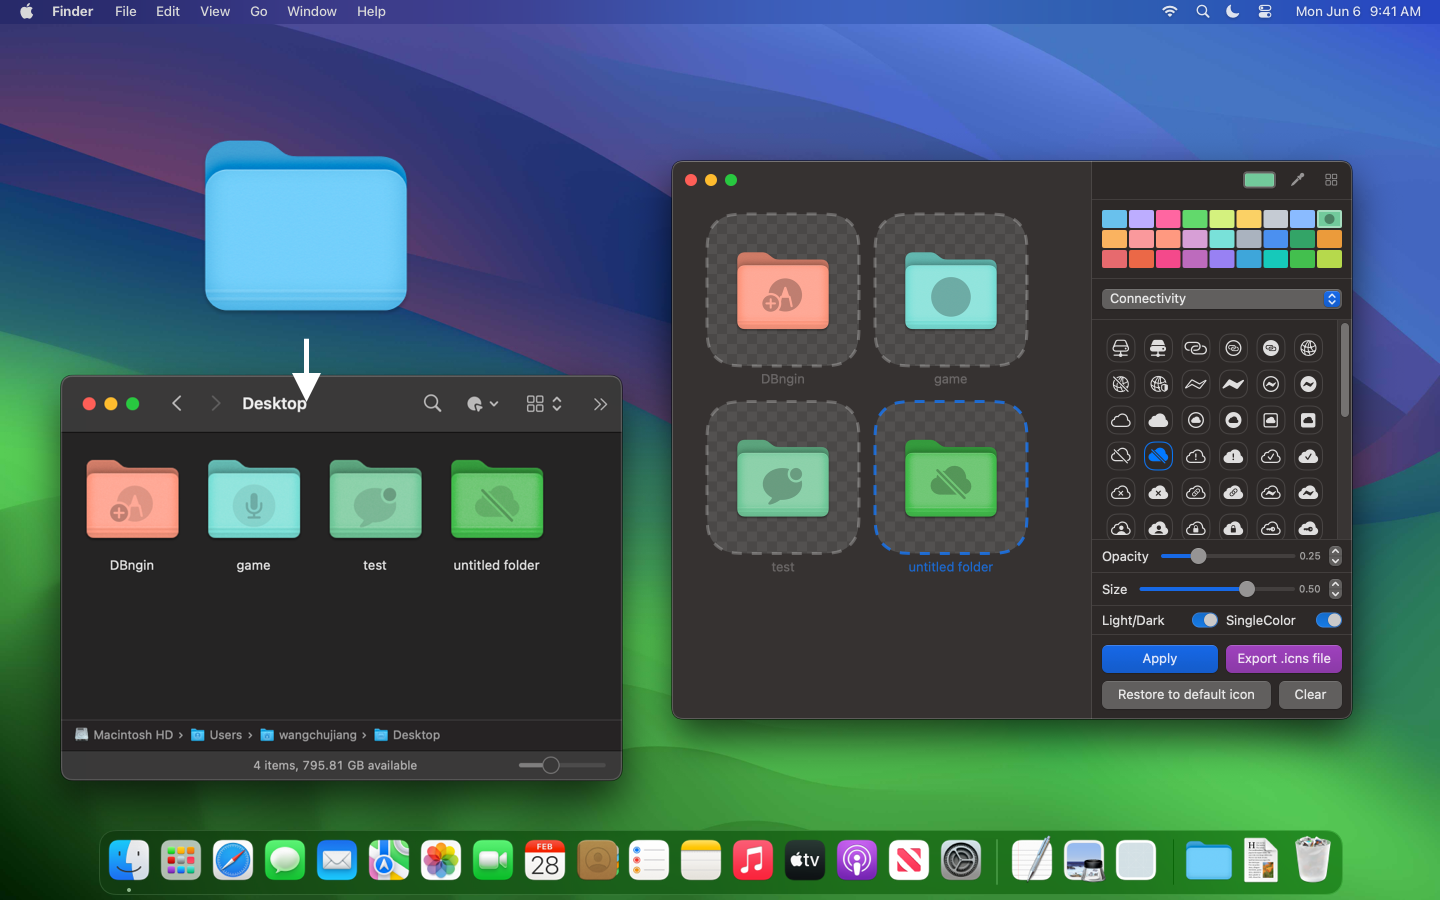
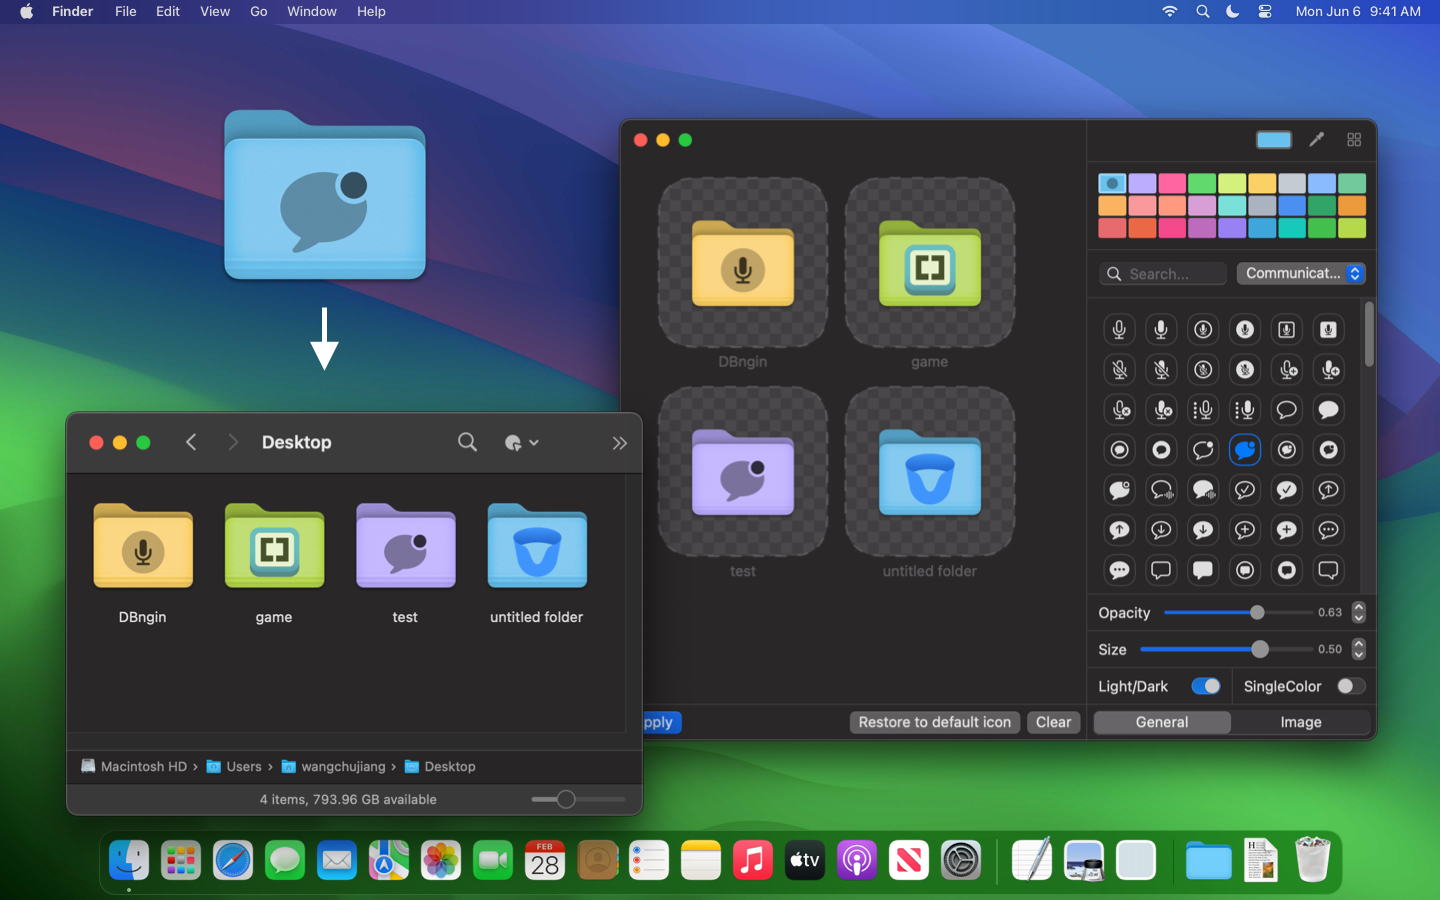
released v1.4.0

diff --git a/README.md b/README.md
@@ -18,22 +18,23 @@
   </p>
 </div>
 
-Use this tool to easily set folder colors and add small icons, enhancing your file management efficiency.
-
-### Features
-
-- Over 5000 diverse symbol icons to choose from
-- Adjustable symbol icon opacity and size
-- Ability to set folder icon color
-- Quick import of folder paths into Dock for setting
-- Export folder icons as icns format
-
-Choose from over 5,000 diverse symbol icons for a unique touch, and select from more than ten preset vibrant colors or customize your own color scheme to suit your preferences. Personalize your folders and documents with distinctive identifiers, transforming the mundane file management experience into a visually rich one.
-
 ![Iconize Folder 1](./assets/screenshots-1.png)
 
 ![Iconize Folder 2](./assets/screenshots-2.png)
 
 ![Iconize Folder 3](./assets/screenshots-3.png)
 
-Elevate your folders and documents with personalized and exclusive identifiers. Transform file management from mundane to a visual feast – revel in the diversity!
+With this tool, you can easily set folder colors and add small icons to enhance the visual effect of your file management, helping you organize files more efficiently.
+
+Choose from over 5000 unique symbol icons or customize your color scheme. You can also select from more than a dozen preset vibrant colors or add image icons to the folder icons to suit your personal preferences, giving your folders a personalized identity and making file management more lively and layered.
+
+### Features
+
+- Over 5000 diverse symbol icons available  
+- Adjust the transparency and size of symbol icons  
+- Set folder icon colors  
+- Add image icons to folder icons  
+- Quickly import folder paths to the Dock  
+- Export folder icons as .icns format  
+
+New features include the ability to adjust the transparency and size of symbol icons, a wider selection of folder colors, and quick import of folder paths to the Dock. You can also export your custom folder icons as .icns files for use elsewhere.

diff --git a/README.zh.md b/README.zh.md
@@ -18,22 +18,23 @@
   </p>
 </div>
 
-使用这个工具，可以轻松设置文件夹颜色并添加小图标，帮助你更高效地管理文件。
-
-### 功能特点
-
-- 超过 5000 种多样符号图标设置
-- 支持符号图标透明度大小设置
-- 支持设置文件夹图标颜色
-- 支持快速将需要设置的文件夹路径导入到 Dock
-- 支持将文件夹图标导出为 icns 格式
-
-选择来自超过 5000 种多样符号图标的独特性，选择十多种预设的鲜艳颜色，或自定义你的色彩方案，以满足个人偏好。让你的文件夹和文档充满个性化标识，改变单调的文件管理，让视觉效果更加丰富多彩。
-
 ![Iconize Folder 1](./assets/screenshots-1.png)
 
 ![Iconize Folder 2](./assets/screenshots-2.png)
 
 ![Iconize Folder 3](./assets/screenshots-3.png)
 
-用个性化和独家标识提升您的文件夹和文档。将文件管理从单调转变为视觉盛宴！
+使用这个工具，你可以轻松地设置文件夹颜色并添加小图标，提升文件管理的视觉效果，帮助你更高效地管理文件。
+
+从超过 5000 种符号图标中选择独特的图标，或自定义你的色彩方案。你还可以选择十多种预设的鲜艳颜色，或在文件夹图标上添加图片图标，满足个人偏好，赋予文件夹个性化标识，让文件管理更加生动、富有层次感。
+
+### 功能特点
+
+- 提供超过 5000 种多样的符号图标  
+- 支持调整符号图标的透明度与大小  
+- 支持设置文件夹图标颜色  
+- 支持为文件夹图标添加图片图标  
+- 支持快速导入文件夹路径到 Dock  
+- 支持将文件夹图标导出为 .icns 格式  
+
+新增的功能包括符号图标的透明度与大小调整、丰富的文件夹颜色选择、以及快速导入文件夹路径到 Dock。你还可以将自定义的文件夹图标导出为 .icns 格式，方便在其他地方使用。
